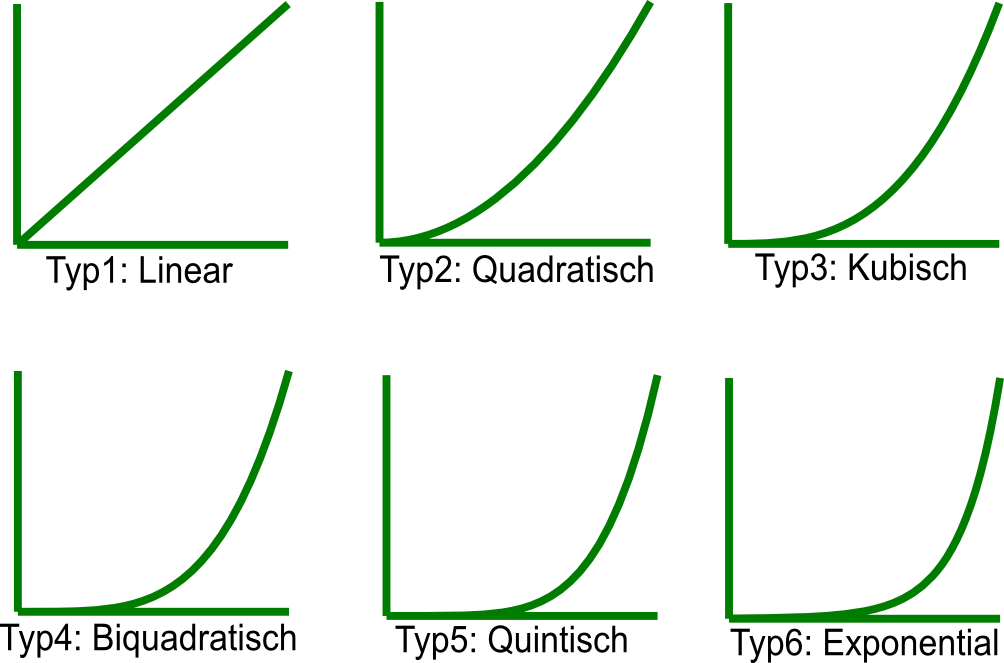
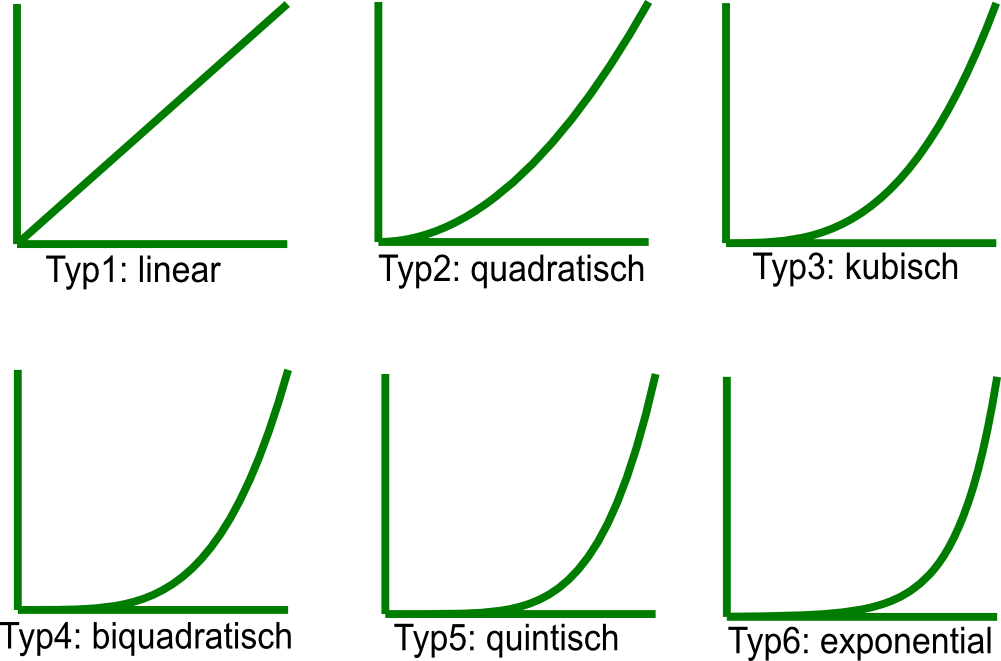
manual misspellings revised

diff --git a/Documents/manual/texDE/Processors.tex b/Documents/manual/texDE/Processors.tex
@@ -19,10 +19,10 @@ Alle Module lassen sich über das Kontextmenü bedienen.
 Rufen Sie einfach das Kontextmenü dort auf, wo sich das gewünschte Modul befindet. 
 %%%%%%%%%%%%%%%%%%%%%%%%%%%%%%%%%%%%%%%%%%%%%%%%%%%%%%%%%%%%%%%%%%%%%%%%%%%%%%%%
 \ukap{Das Plugin}
-VSTForx ist in der Lage beliebig viele Audio-Plugins (siehe Kapitel \ref{compatible} auf Seite \pageref{compatible}) zu laden und in den Signalweg einzubinden. Durch betätigen des (\includegraphics[scale=0.5]{../graphics/e}) Schalters im Plugin-Knoten, kann (falls vorhanden) das Plugin-Editor Fenster geöffnet werden. Das Plugin kann dort auf herkömmliche Art und Weise bedient werden. 
+VSTForx ist in der Lage beliebig viele Audio-Plugins (siehe Kapitel \ref{compatible} auf Seite \pageref{compatible}) zu laden und in den Signalweg einzubinden. Durch Betätigen des (\includegraphics[scale=0.5]{../graphics/e}) Schalters im Plugin-Knoten kann (falls vorhanden) das Plugin-Editor Fenster geöffnet werden. Das Plugin kann dort auf herkömmliche Art und Weise bedient werden. 
 \\\\
 \aktion{MIDI Eigenschaften}
-	Ist das entsprechende Plugin in der Lage MIDI-Daten zu empfangen, erscheint ein Untermenüpunkt \untermenupunkt{midi properties}. Der Signalweg hat keinen Einfluss auf die MIDI-Daten Verteilung in VSTForx. Alle in VSTForx eingehenden MIDI-Daten, werden an alle empfangsbereiten Plugins weitergeleitet. Um MIDI-Daten gezielt an ein Plugins zu leiten, muss eine MIDI-Kanal Einstellung an den betreffenden Plugins erfolgen. Über den \emph{'midi-channel'} Parameter, lässt sich dem Plugin ein MIDI-Kanal zuordnen. Einstellbar sind die Werte: \emph{0..16 sowie 'all'}.
+	Ist das entsprechende Plugin in der Lage MIDI-Daten zu empfangen, erscheint ein Untermenüpunkt \untermenupunkt{midi properties}. Der Signalweg hat keinen Einfluss auf die MIDI-Daten Verteilung in VSTForx. Alle in VSTForx eingehenden MIDI-Daten werden an alle empfangsbereiten Plugins weitergeleitet. Um MIDI-Daten gezielt an ein Plugins zu leiten, muss eine MIDI-Kanal Einstellung an den betreffenden Plugins erfolgen. Über den \emph{'midi-channel'} Parameter lässt sich dem Plugin ein MIDI-Kanal zuordnen. Einstellbar sind die Werte: \emph{0..16 sowie 'all'}.
 \aktion{Plugin Parameter}
 	Im Untermenü \untermenupunkt{Plugin-Name Parameter} befinden sich alle Plugin Parameter.
 \aktion{Plugin Programme}
@@ -54,13 +54,13 @@ Das Pan Modul gehört zu den Signal verändernden Modulen. Über ein Parameter l
 	\eParameterlist
 %%%%%%%%%%%%%%%%%%%%%%%%%%%%%%%%%%%%%%%%%%%%%%%%%%%%%%%%%%%%%%%%%%%%%%%%%%%%%%%%
 \ukap{Das Eingangs-Step Modul} 
-Das Eingangs-Step Modul gehört zu den Signalwegschaltern. Es ist in der Lage zwischen beliebig vielen Eingängen, auf ein Ausgang zu Schalten. Dabei verhält sich das Eingangs-Step Modul wie ein Stepsequencer. Jeder Eingang wird für eine bestimmte Zeit geschaltet. Ist die Zeit abgelaufen wird der nächste Eingang geschaltet. Ist die letzte Stepstufe erreicht beginnt die Sequenz erneut. Es existieren zwei Modi für das Eingangs-Step Modul: \emph{''fix''} und \emph{''sync''}.\\
-\paragraph{fix} Im \emph{''fix''} modus kann für jede Stepstufe ein fester Millisekunden betrag eingestellt werden.
-\paragraph{sync} Im \emph{''sync''} modus werden Notenwerte für die Stepstufen festgelegt. 
+Das Eingangs-Step Modul gehört zu den Signalwegschaltern. Es ist in der Lage zwischen beliebig vielen Eingängen auf einen Ausgang zu schalten. Dabei verhält sich das Eingangs-Step Modul wie ein Stepsequencer. Jeder Eingang wird für eine bestimmte Zeit geschaltet. Ist die Zeit abgelaufen, wird der nächste Eingang geschaltet. Ist die letzte Stepstufe erreicht, beginnt die Sequenz erneut. Es existieren zwei Modi für das Eingangs-Step Modul: \emph{''fix''} und \emph{''sync''}.\\
+\paragraph{fix} Im \emph{''fix''}-Modus kann für jede Stepstufe ein fester Millisekundenbetrag eingestellt werden.
+\paragraph{sync} Im \emph{''sync''}-Modus werden Notenwerte für die Stepstufen festgelegt. 
 \\\\
-\tip{Wann der Syncmodus die Stepsequenz beginnt ist abhängig davon,an welcher Taktposition, in der Hostanwendung die Start-Taste gedrückt wurde. Gestartet wird immer an dem nächst liegenden Viertelnotenwert.}
+\tip{Wann der Syncmodus die Stepsequenz beginnt, ist abhängig davon, an welcher Taktposition in der Hostanwendung die Start-Taste gedrückt wurde. Gestartet wird immer an dem nächst liegenden Viertelnotenwert.}
 \aktion{Einen weiteren Eingang hinzufügen}
-	Wählen Sie den Menüpunkt \menupunkt{add\_input\_node} um einen weiteren Moduleingang hinzuzufügen.
+	Wählen Sie den Menüpunkt \menupunkt{add\_input\_node}, um einen weiteren Moduleingang hinzuzufügen.
 \aktion{Modul Parameter}
 	Der Untermenüpunkt \untermenupunkt{input\_step parameter} enthält folgende Parameter:
 	\bParameterlist
@@ -77,9 +77,9 @@ Das Eingangs-Step Modul gehört zu den Signalwegschaltern. Es ist in der Lage zw
 %%%%%%%%%%%%%%%%%%%%%%%%%%%%%%%%%%%%%%%%%%%%%%%%%%%%%%%%%%%%%%%%%%%%%%%%%%%%%%%%
 \ukap{Das Ausgangs-Step Modul}
 Die Funktionsweise des Ausgangs-Step Modules ist im wesentlichen identisch mit dem Eingangs-Step Modul. Einziger Unterschied:
-es werden keine Eingänge sondern Ausgänge geschaltet.
+Es werden keine Eingänge sondern Ausgänge geschaltet.
 \aktion{Einen weiteren Ausgang hinzufügen}
-	Wählen Sie den Menüpunkt \menupunkt{add\_output\_node} um einen weiteren Modulausgang hinzuzufügen.
+	Wählen Sie den Menüpunkt \menupunkt{add\_output\_node}, um einen weiteren Modulausgang hinzuzufügen.
 \aktion{Modul Parameter}
 	Der Untermenüpunkt \untermenupunkt{output\_step parameter} enthält folgende Parameter:
 	\bParameterlist
@@ -95,9 +95,9 @@ es werden keine Eingänge sondern Ausgänge geschaltet.
 \ssstern : siehe Abbildung \ref{curvetypes} auf Seite \pageref{curvetypes}
 %%%%%%%%%%%%%%%%%%%%%%%%%%%%%%%%%%%%%%%%%%%%%%%%%%%%%%%%%%%%%%%%%%%%%%%%%%%%%%%%
 \ukap{Das Eingangs-Switch Modul} 
-Genau wie die Step Module, gehört das Eingangs-Step Modul zu den Signalwegschaltern. Es ist ebenso in der Lage zwischen beliebig vielen Eingängen, auf einen Ausgang zu Schalten. Welcher Eingang aktuell geschaltet ist hängt von einem Parameter ab.
+Genau wie die Step Module gehört das Eingangs-Step Modul zu den Signalwegschaltern. Es ist ebenso in der Lage zwischen beliebig vielen Eingängen auf einen Ausgang zu schalten. Welcher Eingang aktuell geschaltet ist, hängt von einem Parameter ab.
 \aktion{Einen weiteren Eingang hinzufügen}
-	Wählen Sie den Menüpunkt \menupunkt{add\_input\_node} um einen weiteren Moduleingang hinzuzufügen.
+	Wählen Sie den Menüpunkt \menupunkt{add\_input\_node}, um einen weiteren Moduleingang hinzuzufügen.
 \aktion{Modul Parameter}
 	Der Untermenüpunkt \untermenupunkt{input\_switch parameter} enthält folgende Parameter:
 	\bParameterlist
@@ -111,7 +111,7 @@ Genau wie die Step Module, gehört das Eingangs-Step Modul zu den Signalwegschal
 \sstern : siehe Abbildung \ref{curvetypes} auf Seite \pageref{curvetypes}
 %%%%%%%%%%%%%%%%%%%%%%%%%%%%%%%%%%%%%%%%%%%%%%%%%%%%%%%%%%%%%%%%%%%%%%%%%%%%%%%%
 \ukap{Das Ausgangs-Switch Modul}
-Wie Eingangs-Switch Modul, ausser: es werden Ausgänge geschaltet. 
+Die Funktionsweise ist identisch zum Eingangs-Switch Modul. Einziger Unterschied: Es werden Ausgänge geschaltet. 
 \aktion{Einen weiteren Ausgang hinzufügen}
 	Wählen Sie den Menüpunkt \menupunkt{add\_output\_node} um einen weiteren Modulausgang hinzuzufügen.
 \aktion{Modul Parameter}
@@ -127,7 +127,7 @@ Wie Eingangs-Switch Modul, ausser: es werden Ausgänge geschaltet.
 \sstern : siehe Abbildung \ref{curvetypes} auf Seite \pageref{curvetypes}
 %%%%%%%%%%%%%%%%%%%%%%%%%%%%%%%%%%%%%%%%%%%%%%%%%%%%%%%%%%%%%%%%%%%%%%%%%%%%%%%%
 \ukap{Das Peaktracker Modul}
-Das Peaktracker Modul gehört zu den Signal nach Parameterwert Umwandlern. Diese analysieren das anliegende Eingangssignal und senden das Ergebnis an einen Ausgabeparameter. Somit ist es möglich, Plugin- sowie Modulparameter über ein Audiosignal zu steuern. Im Falle des Peaktracker Modules wird das anliegende Audiosignal direkt in einen Parameterwert umgewandelt. Signalausschläge wie zum Beispiel bei einer Snaredrum würden 1:1 an den Ausgabeparameter übertragen.
+Das Peaktracker Modul gehört zu den ''Signal nach Parameterwert Umwandler''. Diese analysieren das anliegende Eingangssignal und senden das Ergebnis an einen Ausgabeparameter. Somit ist es möglich, Plugin- sowie Modulparameter über ein Audiosignal zu steuern. Im Falle des Peaktracker Modules wird das anliegende Audiosignal direkt in einen Parameterwert umgewandelt. Signalausschläge wie zum Beispiel bei einer Snaredrum würden direkt an den Ausgabeparameter übertragen.
 
 \aktion{Modul Parameter}
 	Der Untermenüpunkt \untermenupunkt{peak\_tracker parameter} enthält folgende Parameter:
@@ -138,7 +138,7 @@ Das Peaktracker Modul gehört zu den Signal nach Parameterwert Umwandlern. Diese
 \ukap{Das ADSR-Trigger Modul}
 Das ADSR-Trigger Modul gehört ebenfalls zu den Signal nach Parameterwert Umwandlern. Ähnlich herkömmlicher Synthesizer wird hier eine ADSR-Sequenz (siehe \ref{adsr} auf Seite \pageref{adsr}) ausgelöst. Nur mit dem Unterschied, dass diese Sequenz nicht durch einen Tastendruck ausgelöst wird, sondern durch das anliegende Eingangssignal. 
 \\\\
-Am Eingangssignal liegt ein Schwellwert-Trigger. Ist ein Schwellwert überschritten, startet der ADS-teil der Sequenz. Wird der Schwellwert wieder unterschritten, geht die Sequenz in den R-teil über.\\ 
+Am Eingangssignal liegt ein Schwellwert-Trigger. Ist ein Schwellwert überschritten, startet der ADS-Teil der Sequenz. Wird der Schwellwert wieder unterschritten, geht die Sequenz in den R-Teil über.\\ 
 %Das ADSR-Trigger Modul kann in zwei Modi arbeiten: \emph{''absolut''} und \emph{''relativ''}.
 %\paragraph{Absolut}
 %Im Absolut-Modus wird 
@@ -157,9 +157,9 @@ Am Eingangssignal liegt ein Schwellwert-Trigger. Ist ein Schwellwert überschrit
 \sstern : siehe Abbildung \ref{curvetypes} auf Seite \pageref{curvetypes}
 %%%%%%%%%%%%%%%%%%%%%%%%%%%%%%%%%%%%%%%%%%%%%%%%%%%%%%%%%%%%%%%%%%%%%%%%%%%%%%%%
 \ukap{Das MIDI-Daten-Empfänger Modul}
-Das MIDI-Daten-Empfänger Modul empfängt MIDI-Controlldaten und überträgt dessen Werte an die jeweiligen Parameter.
+Das MIDI-Daten-Empfänger Modul empfängt MIDI-Kontrolldaten und überträgt dessen Werte an die jeweiligen Parameter.
 \aktion{MIDI Eigenschaften}
-Genau wie bei den (MIDI-fähigen) Plugins, lässt sich über den Untermenüpunkt \untermenupunkt{midi properties} der MIDI-empfangskanal einstellen.
+Genau wie bei den (MIDI-fähigen) Plugins lässt sich über den Untermenüpunkt \untermenupunkt{midi properties} der MIDI-Empfangskanal einstellen.
 \aktion{Modul Parameter}
 Im Untermenüpunkt \untermenupunkt{midi\_receiver parameter} befinden sich alle 127 MIDI-Control + Pitchbend Parameter. 
 \begin{figure}[pth]

diff --git a/Documents/manual/texDE/Editor.tex b/Documents/manual/texDE/Editor.tex
@@ -3,34 +3,34 @@
 \ukap{Die Bühne}
 Die ''Bühne'' macht den größten Teil des Editors aus. Auf ihr können Plugins, Module sowie Regler platziert und bedient werden.
 \ukap{\label{mousecontext}Die Mauskontext-Auswahl}
-Oben links im Editor befindet sich die Mauskontext-Auswahl: \includegraphics[scale=0.5]{../graphics/mousecontext}. Der gewählte Mauskontext bestimmt, in welcher Art und Weise, auf der Bühne befindliche Elemente benutzt werden können:
+Oben links im Editor befindet sich die Mauskontext-Auswahl: \includegraphics[scale=0.5]{../graphics/mousecontext}. Der gewählte Mauskontext bestimmt, in welcher Art und Weise auf der Bühne befindliche Elemente benutzt werden können:
 \\
 \begin{description}
 	\item[Benutzen]  (\includegraphics[scale=0.5]{../graphics/muse}) Um Elemente wie Drehregler auf der Bühne zu bedienen, wählen Sie den ''Benutzen''- Kontext.
 	\item[Verbinden] (\includegraphics[scale=0.5]{../graphics/mconnect}) ist ''Verbinden'' gewählt, können zwei Elemente mit der Maus verbunden werden. Klicken Sie dabei auf das erste Element und ''ziehen'' Sie den Mauszeiger auf das zweite Element. Sind beide Elemente verbindbar, wird die soeben erstellte Verbindung durch eine Linie dargestellt. Möchten Sie eine Verbindung wieder entfernen, rufen Sie das Kontextmenü der Verbindung auf. 
-	\item[Bewegen]   (\includegraphics[scale=0.5]{../graphics/mmove}) Jedes Element auf der Bühne ist verschiebbar: wählen Sie ''Verschieben'', klicken Sie auf ein Element und ziehen Sie es an eine beliebige Position. Ausserdem lässt sich mittels ''Verschieben''-Kontext die Bühne selbst verschieben. Klicken Sie hierfür auf eine Position der Bühne, an dem sich kein Element befindet und ziehen Sie Maus in eine beliebige Richtung.
+	\item[Bewegen]   (\includegraphics[scale=0.5]{../graphics/mmove}) Jedes Element auf der Bühne ist verschiebbar: wählen Sie ''Verschieben'', klicken Sie auf ein Element und ziehen Sie es an eine beliebige Position. Außerdem lässt sich mittels ''Verschieben''-Kontext die Bühne selbst verschieben. Klicken Sie hierfür auf eine Position der Bühne, an dem sich kein Element befindet und ziehen Sie Maus in eine beliebige Richtung.
 \end{description}
 
-\ukap{Ein und Ausgänge}
+\ukap{Ein- und Ausgänge}
 Ähnlich real existierender Hardware, bietet VSTForx frei verdrahtbare Schnittstellen für externe und interne Module: die Ein- und Ausgänge. Ein Eingang lässt sich mit einem beliebigen Ausgang verbinden und ein Ausgang mit einem beliebigen Eingang. 
 \paragraph{Bühnen-Eintrittsknoten} (\includegraphics[scale=0.5, bb = 0 15 40 0]{../graphics/InputNode}) \\\\
-Außerhalb der ''Bühne'' ist dies der VSTForx-Eingang. Hier liegt das Audio-Signal an welches von einer Hostanwendung an VSTForx gesendet wird.  
+Außerhalb der ''Bühne'' ist dies der VSTForx-Eingang. Hier liegt das Audio-Signal, an welches von einer Hostanwendung an VSTForx gesendet wird.  
 \paragraph{Bühnen-Austrittsknoten} (\includegraphics[scale=0.5,bb = 0 15 40 0]{../graphics/OutputNode}) \\\\
-Außerhalb der ''Bühne'' ist dies der VSTForx-Ausgang.Alle Audio-Signale die auf diesen Knoten geleitet werden, werden von VSTForx an die Hostanwendung gesendet.
+Außerhalb der ''Bühne'' ist dies der VSTForx-Ausgang. Alle Audio-Signale, die an diesem Knoten anliegen, werden von VSTForx an die Hostanwendung geleitet.
 \paragraph{Modul Eingang} (\includegraphics[scale=0.5]{../graphics/InputNode_small}) \\
 Der Eingangsknoten eines Modules.
 \paragraph{Modul Ausgang} (\includegraphics[scale=0.5]{../graphics/OutputNode_small}) \\
 Der Ausgangsknoten eines Modules.
 
 \ukap{Das Kontextmenü}
-VSTForx wird hauptsächlich durch ein Kontextmenü gesteuert. Je nachdem, an welcher Position auf der ''Bühne'' Sie das Kontextmenü aufrufen ( unter Windows ist dies Standardmäßig die rechte Maustaste, unter Mac: ''Ctrl + Maustaste'' ) werden unterschiedliche - zum Bühnenobjekt - passende Menüpunkt aufgezeigt.
+VSTForx wird hauptsächlich durch ein Kontextmenü gesteuert. Je nachdem, an welcher Position auf der ''Bühne'' Sie das Kontextmenü aufrufen ( unter Windows ist dies Standardmäßig die rechte Maustaste, unter Mac: ''Ctrl + Maustaste'' ) werden unterschiedliche - zum Bühnenobjekt - passende Menüpunkte aufgezeigt.
 \\\\
 Wichtige Meneüelemente sind:
 \begin {description}
-	\item[Untermenü] (\includegraphics[scale=0.5]{../graphics/submenu}): fahren Sie mit der Maus auf einen Untermenüpunkt. 
+	\item[Untermenü] (\includegraphics[scale=0.5]{../graphics/submenu}): Fahren Sie mit der Maus auf einen Untermenüpunkt. 
 	Nach kurzer Zeit erscheint ein Untermenü mit weiteren Aktionsmöglichkeiten.
-	\item[Ein Objekt der Bühne hinzufügen] (\includegraphics[scale=0.5]{../graphics/addtostage}): um ein Objekt auf der ''Bühne'' zu platzieren, klicken Sie auf einen entsprechenden Menüpunkt. Das Menü verschwindet und das gewählte Objekt erscheint. Bewegen Sie nun die Maus nun an eine gewünschte Position. Klicken Sie erneut um das Objekt zu platzieren. 
-	\item[Schnelle Parameter Einstellung] (\includegraphics[scale=0.5]{../graphics/menuparameter}): handelt es sich bei einem Menüpunkt um einen Parameter gibt es zwei Bedienungsmöglichkeiten. Sie können einen gewählten Parameter, wie in Punkt \emph{''Ein Objekt der Bühne hinzufügen''} beschrieben, als Drehregler auf der ''Bühne'' platzieren. Oder direkt im Menü einstellen. Klicken Sie hierfür auf einen Parameter-Menüpunkt und bewegen Sie die Maus mit gedrückter Maustaste nach links oder rechts. Der Menüeintrag verhält sich nun wie ein Schieberegler.
+	\item[Ein Objekt der Bühne hinzufügen] (\includegraphics[scale=0.5]{../graphics/addtostage}): Um ein Objekt auf der ''Bühne'' zu platzieren, klicken Sie auf einen entsprechenden Menüpunkt. Das Menü verschwindet und das gewählte Objekt erscheint. Bewegen Sie nun die Maus an eine gewünschte Position. Klicken Sie erneut, um das Objekt zu platzieren. 
+	\item[Schnelle Parameter Einstellung] (\includegraphics[scale=0.5]{../graphics/menuparameter}): Handelt es sich bei einem Menüpunkt um einen Parameter gibt es zwei Bedienungsmöglichkeiten. Sie können einen gewählten Parameter, wie in Punkt \emph{''Ein Objekt der Bühne hinzufügen''} beschrieben, als Drehregler auf der ''Bühne'' platzieren. Oder Sie können den Parameterwert direkt im Menü einstellen. Klicken Sie hierfür auf einen Parameter-Menüpunkt und bewegen Sie die Maus mit gedrückter Maustaste nach links oder rechts. Der Menüeintrag verhält sich nun wie ein Schieberegler.
 	\item[Menü Navigation] (\includegraphics[scale=0.5]{../graphics/menunav}): befinden sich in einem Menü mehr Einträge als dargestellt werden kann, können Sie mittels der Navigations-Schaltflächen das Menü ''nach oben'' bzw. ''nach unten'' bewegen. 
 \end{description}
 

diff --git a/Documents/manual/texDE/Installation.tex b/Documents/manual/texDE/Installation.tex
@@ -33,7 +33,7 @@ Derzeit wird lediglich das VST2.x Pluginformat in der 32-bit Variante unterstüt
 \ukap{Installation}
 Entpacken Sie, je nach Betriebsystem, den Inhalt der Datei ''VSTForx-\forxVersion-win.zip'' oder ''VSTForx-\forxVersion-mac.zip'' in das VST-Pluginverzeichnis Ihrer Hostanwendung.
 \\\\
-Öffnen sie Ihre Hostanwendung und vergewissern Sie sich, dass VSTForx korrekt von ihrer Hostanwendung erkannt wurde (die genaue Vorgehensweise hierfür ist abhängig von ihrer Hostanwendung). 
+Öffnen sie Ihre Hostanwendung und vergewissern Sie sich, dass VSTForx korrekt von Ihrer Hostanwendung erkannt wurde (die genaue Vorgehensweise hierfür ist abhängig von Ihrer Hostanwendung). 
 \\\\
 VSTForx sollte in zwei Varianten erscheinen:
 \begin{itemize}
@@ -50,8 +50,8 @@ VSTForx sollte in zwei Varianten erscheinen:
 \end{center}
 \end{figure}
 
-Laden sie VSTForx in ihre Hostanwendung. Öffnen sie das Editorfenster von VSTForx (siehe Abbildung \ref{blank}). \\
-Öffnen sie den Einstellungsdialog durch klicken auf die  \includegraphics[scale=0.4]{../graphics/btn_setup}
+Laden Sie VSTForx in Ihre Hostanwendung. Öffnen Sie das Editorfenster von VSTForx (siehe Abbildung \ref{blank}). \\
+Öffnen Sie den Einstellungsdialog durch Klicken auf die  \includegraphics[scale=0.4]{../graphics/btn_setup}
 Schaltfläche (oben rechts im Editor). 
 
 \begin{figure}[h]
@@ -64,12 +64,12 @@ Schaltfläche (oben rechts im Editor).
 
 \ukap{\label{scanconfig}Das Scannen}
 \paragraph{Hinzufügen von Pluginverzeichnissen}
-Mittels der Schaltflächen \emph{''add Directory''}, \emph{''change Directory''}, \emph{''remove Directory''} können Sie vorhandene Pluginverzeichnisse zur VSTForx-Plugindatenbank \emph{hinzufügen}, \emph{ändern}, oder \emph{entfernen}. Der Scanvorgang startet nach betätigen der ''Ok'' Schaltfläche, sobald ein Verzeichnis hinzugefügt oder geändert wurde. Andernfalls können Sie jederzeit durch 
-betätigen von ''scan now'', den Scanvorgang initiieren. \\ 
+Mittels der Schaltflächen \emph{''add Directory''}, \emph{''change Directory''}, \emph{''remove Directory''} können Sie vorhandene Pluginverzeichnisse zur VSTForx-Plugindatenbank \emph{hinzufügen}, \emph{ändern}, oder \emph{entfernen}. Der Scanvorgang startet nach Betätigen der ''Ok'' Schaltfläche, sobald ein Verzeichnis hinzugefügt oder geändert wurde. Andernfalls können Sie jederzeit durch 
+Betätigen von ''scan now'' den Scanvorgang initiieren. \\ 
 \paragraph{Der Scanvorgang} 
-VSTForx durchsucht nun alle Pluginverzeichnisse nach kompatiblen Plugins (siehe Unterstützte Pluginformate). Die Ergebnisse dieses Vorganges werden in einem weiteren ''VSTForx Scan Directories''-Dialog angezeigt. Während des Scanvorgang ist - Systembedingt - keine Interaktion mit der VSTForx Oberfläche möglich. Es wird daher empfohlen zu warten bis der Scanvorgang vollständig abgeschlossen ist. Dies kann, je nach System, mehrere Minuten dauern. Ist der Scanvorgang beendet wird eine Zusammenfassung im ''VSTForx Scan Directories''-Dialog angezeigt (Siehe Abbildung \ref{scanres}).
+VSTForx durchsucht nun alle Pluginverzeichnisse nach kompatiblen Plugins (siehe unterstützte Pluginformate). Die Ergebnisse dieses Vorganges werden in einem weiteren ''VSTForx Scan Directories''-Dialog angezeigt. Während des Scanvorgang ist - systembedingt - keine Interaktion mit der VSTForx Oberfläche möglich. Es wird daher empfohlen zu warten, bis der Scanvorgang vollständig abgeschlossen ist. Dies kann, je nach System, mehrere Minuten dauern. Ist der Scanvorgang beendet, wird eine Zusammenfassung im ''VSTForx Scan Directories''-Dialog angezeigt (Siehe Abbildung \ref{scanres}).
 \\\\
-\textbf{Denken Sie daran den Scanvorgang zu wiederholen sollte sich der Inhalt eines Pluginverzeichnisses ändern!}
+\textbf{Denken Sie daran den Scanvorgang zu wiederholen, sollte sich der Inhalt eines Pluginverzeichnisses ändern!}
 \begin{figure}[h]
 \begin{center}
 	\includegraphics[scale=0.3]{../graphics/scanres}
@@ -80,7 +80,7 @@ VSTForx durchsucht nun alle Pluginverzeichnisse nach kompatiblen Plugins (siehe 
 \paragraph{Fast Scan}
 Während des Scanvorgangs sucht VSTForx alle Dateien, die als Plugin infrage kommen\footnote{je nach System handelt es sich dabei um ''.dll'' oder alle ''.vst'' Dateien}. VSTForx versucht dabei diese Dateien als Plugin zu laden. Dies kann je nach Plugin und System mehrere Sekunden dauern. Sollte der Scanvorgang zu lange dauern oder es zu Abstürzen kommen, besteht die Möglichkeit das Laden der Plugins zu überspringen. Aktivieren Sie hierfür die ''Fast Scan'' Option.
 \\\\
-Ist die ''Fast Scan'' Option aktiviert, werden alle potentiellen Plugindateien ungeprüft in der Plugindatenbank aufgenommen. Allerdings besteht dabei die Gefahr, dass Dateien die für VSTForx nicht ladbar sind, in die Plugindatenbank aufgenommen werden. 
+Ist die ''Fast Scan'' Option aktiviert, werden alle potentiellen Plugindateien ungeprüft in der Plugindatenbank aufgenommen. Allerdings besteht dabei die Gefahr, dass Dateien, die für VSTForx nicht ladbar sind, in die Plugindatenbank aufgenommen werden. 
 
 \ukap{Editor Window}
 Mittels der Schaltflächen \textbf{''- smaller'', ''+ larger'', ''- narrower'', ''+ wider'', ''- flatter'', ''+ higher''} können Sie die VSTForx-Editorgröße verändern. 

diff --git a/Documents/manual/texDE/Parameter.tex b/Documents/manual/texDE/Parameter.tex
@@ -1,15 +1,15 @@
 % !TEX encoding = UTF-8 Unicode
 \kap{Parameter}
 Nahezu alle Plugin-/Moduleinstellungen werden in VSTForx durch Parameter getätigt. Diese sind in Form von Drehreglern auf der Bühne platzier- und bedienbar. Außerdem bietet VSTForx die Möglichkeit, einmal platzierte Drehregler miteinander zu verbinden (siehe Kapitel \ref{mousecontext} auf Seite \pageref{mousecontext}).
-Dadurch lassen sich mehrere Parameter auf einmal Steuern. 
+Dadurch ist es möglich, mehrere Drehregler gleichzeitig zu steuern. 
 \ukap{Operatoren}
-Zusätzlich können Sie, über das Kontextmenü einer Parameterverbindung, Operatoren auf solch eine Verbindung legen. Operatoren Verändern das Verhalten einer Parameter Verbindung. So wird zum Beispiel mit dem ''Inverse'' Operator bewirkt, das sich Verhalten des Nachbar-Parameters umkehrt. 
+Zusätzlich können Sie, über das Kontextmenü einer Parameterverbindung, Operatoren auf solch eine Verbindung legen. Operatoren verändern das Verhalten einer Parameter Verbindung. So wird zum Beispiel mit dem ''Inverse'' Operator bewirkt, das sich, das Verhalten des Nachbar-Parameters umkehrt. 
 
 \paragraph{Inverse-Operator}
 Kehrt das Verhalten des Nachbarparameters um. Um den Inverse-Operator hinzuzufügen, rufen Sie das Kontextmenü der Verbindung auf und wählen sie \menupunkt{add +/- Operator}.
 
 \paragraph{Exp/Log-Operator}
-Sind zwei Parameter A, B miteinander verbunden und der Exp/log Operator ist hinzugefügt. Verhält sich Parameter B Exponentiell zu Parameter A. Umgekehrt verhält sich Parameter A Logarithmisch zu Parameter B.
+Sind zwei Parameter A, B miteinander verbunden und der Exp/log Operator ist hinzugefügt. Verhält sich Parameter B Exponentiell zu Parameter A. Umgekehrt verhält sich Parameter A logarithmisch zu Parameter B.
 Um den Exp/Log-Operator hinzuzufügen, rufen Sie das Kontextmenü der Verbindung auf und wählen sie \menupunkt{add EXP/LOG Operator}.
 \\\\
 Im Kontextmenü der Verbindung ist nun zusätzlich ein \menupunkt{EXP/LOG slope} Parameter aufrufbar. Dieser Wert bestimmt den Anstieg der Exponential bzw. Logarithmus Funktion.

diff --git a/Documents/tech_spec/tex/main.tex b/Documents/tech_spec/tex/main.tex
@@ -1,6 +1,4 @@
 % !TEX encoding = UTF-8 Unicode
-%% Erläuterungen zu den Befehlen erfolgen unter
-%% diesem Beispiel.
 \documentclass{scrartcl}
 \usepackage[utf8]{inputenc}
 \usepackage[T1]{fontenc}
